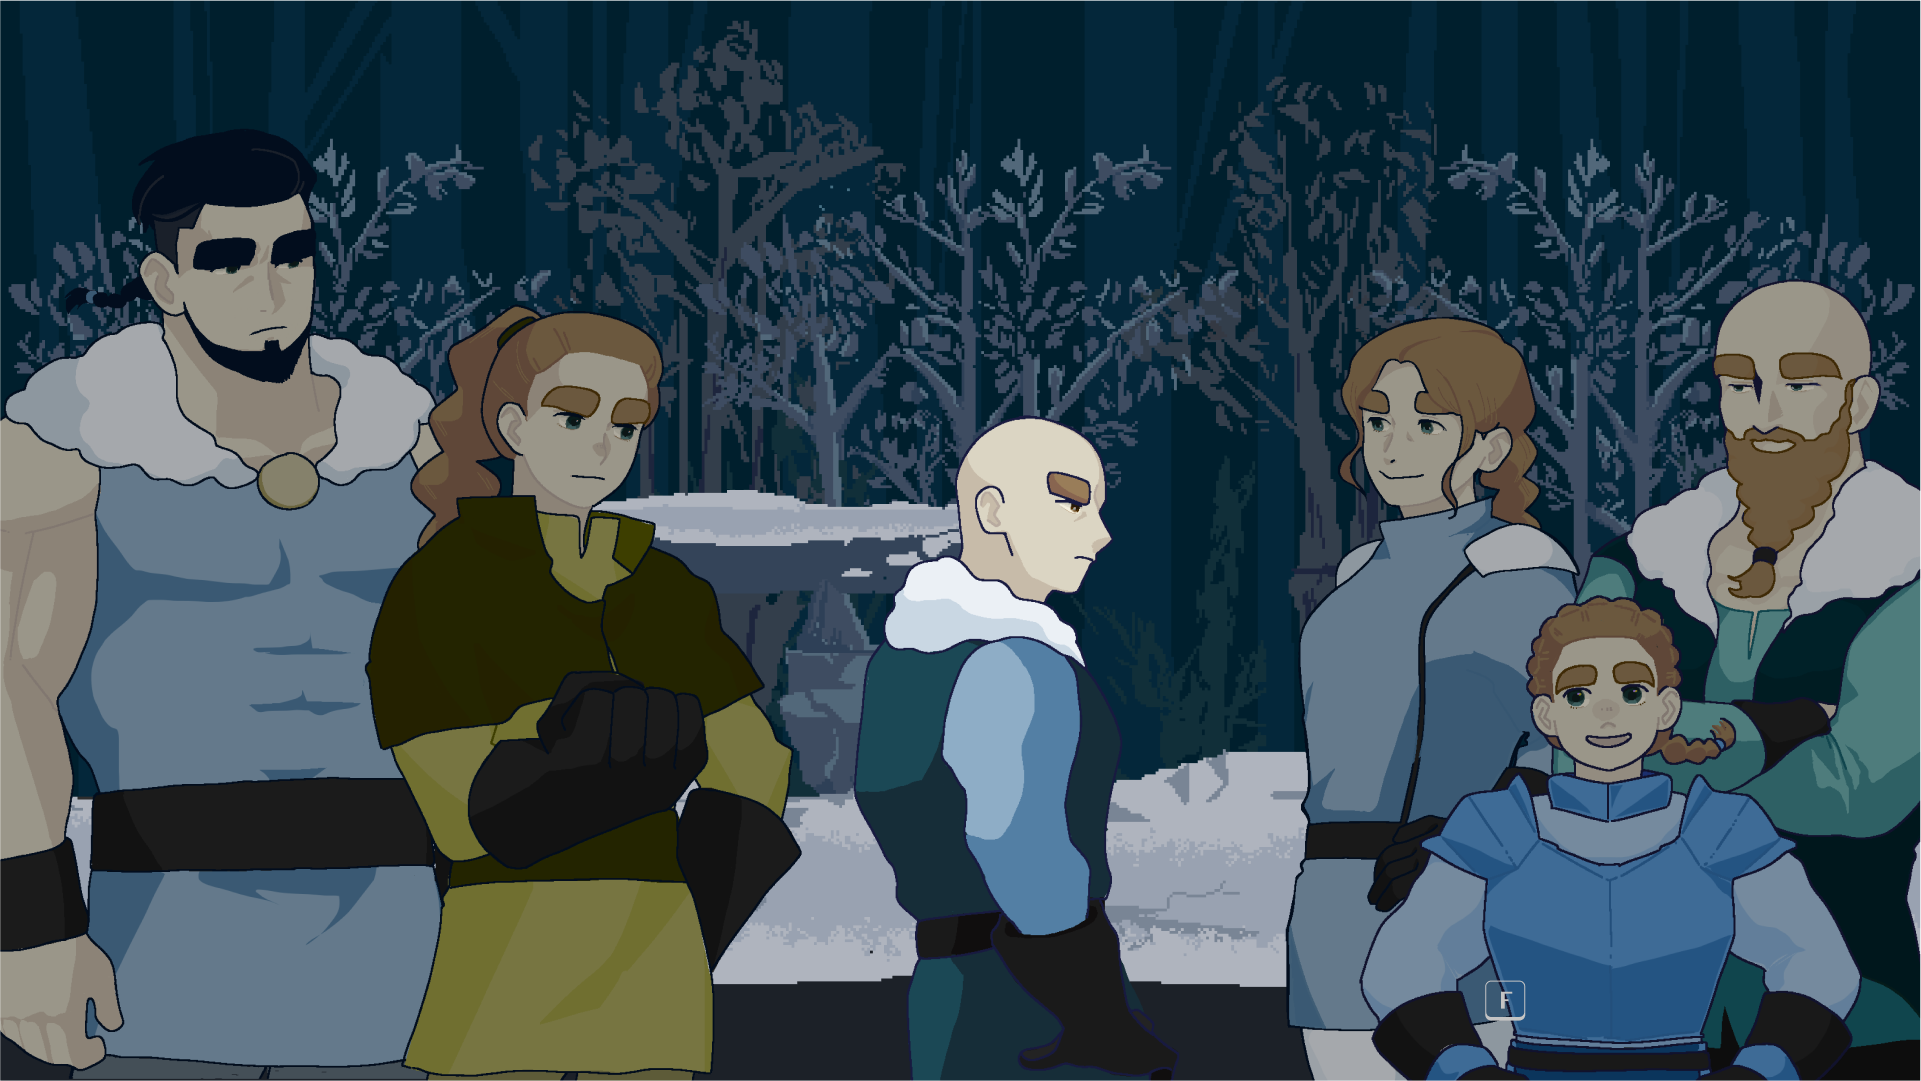
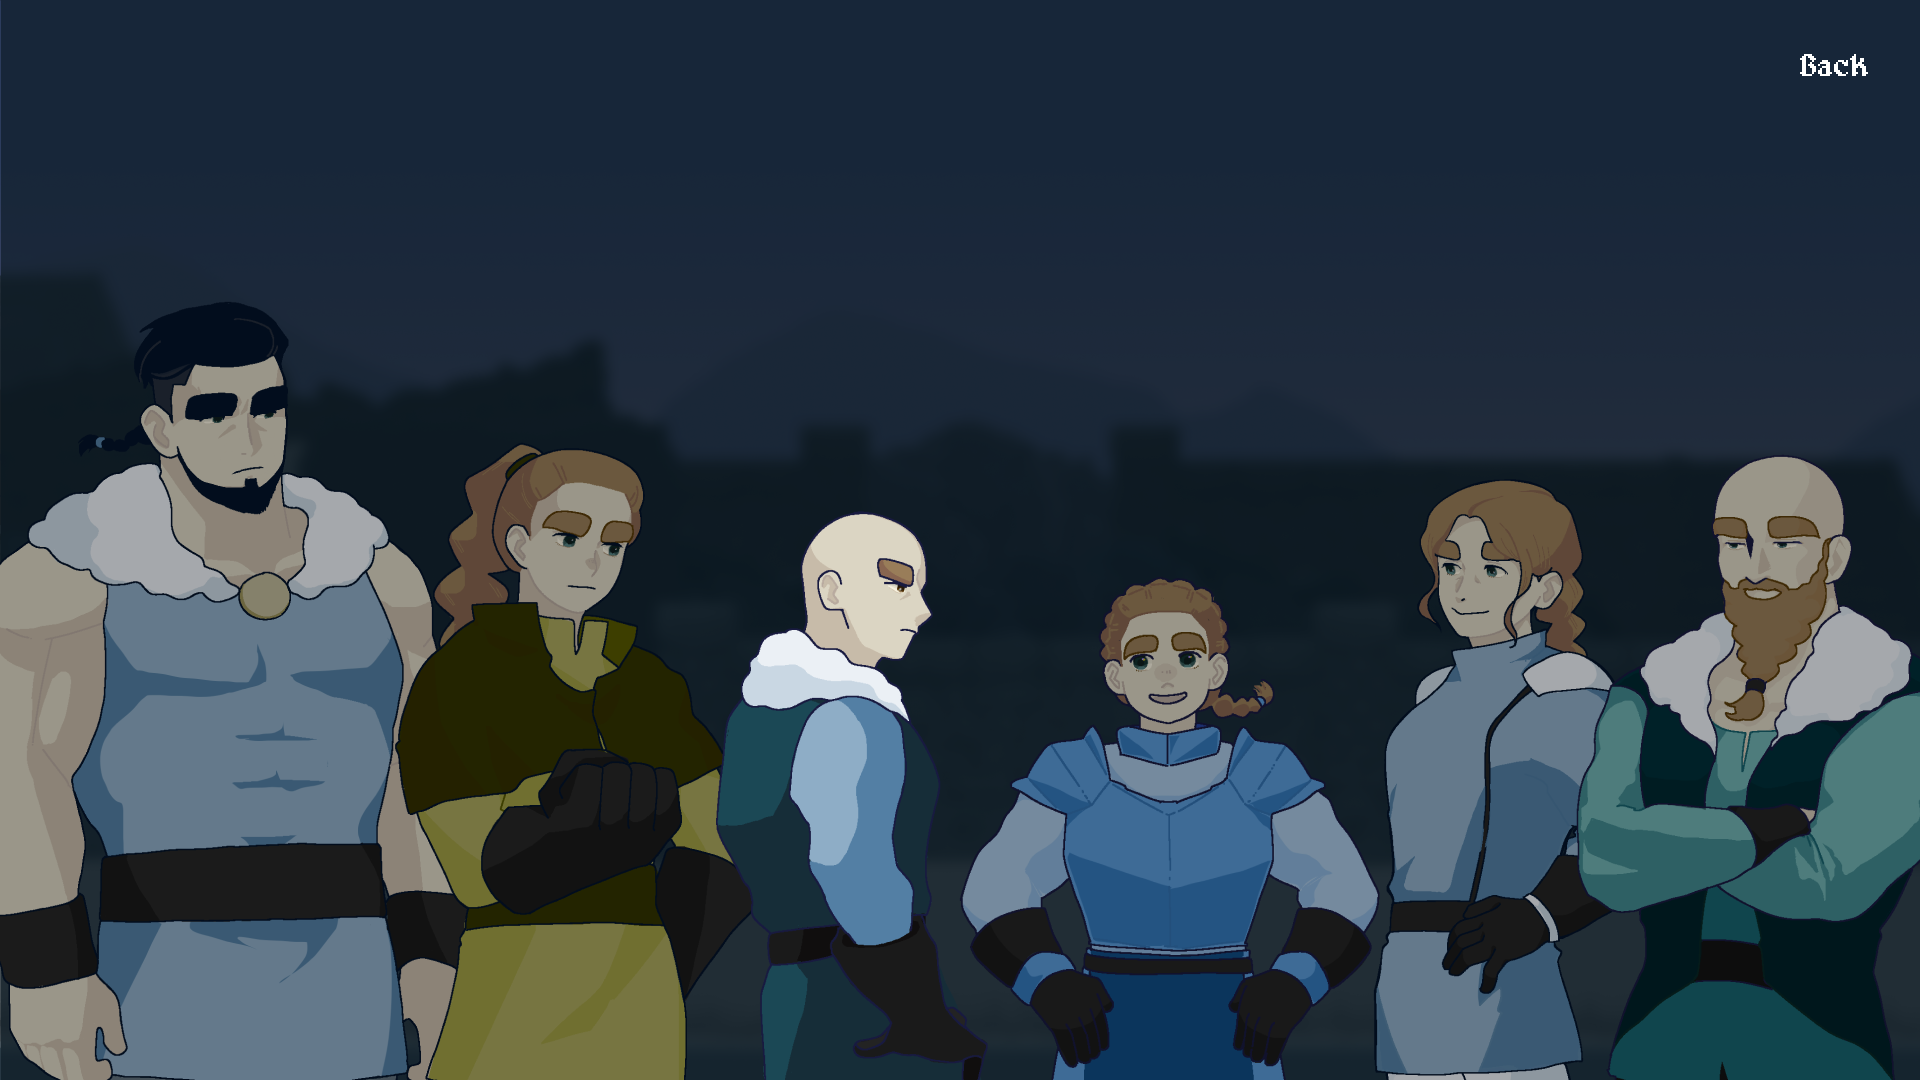
update jumbotron images
clean up file paths

diff --git a/style.css b/style.css
@@ -79,6 +79,24 @@ html {
     border-bottom: 1px solid #929292;
   }
 
+  .text-container {
+    position: relative;
+    display: block;
+    margin-left: auto;
+    margin-right: auto;
+  }
+  
+  .jumbotron::before {
+    content: "";
+    position: absolute;
+    top: 0;
+    left: 0;
+    width: 100%;
+    height: 100%;
+    background: linear-gradient(0deg, #00000088 60%, #ffffff44 140%);
+  }
+
+
     /* .jumbotron {
     color: #E0E0E0;
     border-bottom: 1px solid #929292;
@@ -109,7 +127,7 @@ html {
   }
 
   .btr-jb{
-    background-image: url('images/index-assets/bjorn-rage.jpg');
+    background-image: url('images/btr-assets/bjorn-rage.jpg');
   }
 
   .rotr-jb{
@@ -117,30 +135,13 @@ html {
   }
 
   .lotr-jb{
-    background-image: url('images/index-assets/forest-level-3.png');
+    background-image: url('images/lotr-assets/lotr-jumbotron.png');
   }
 
   .bh-jb{
-    background-image: url('images/bh-assets/bh-jumbotron-2.png');
+    background-image: url('images/bh-assets/bh-jumbotron-3.png');
   }
   
-  .text-container {
-    position: relative;
-    display: block;
-    margin-left: auto;
-    margin-right: auto;
-  }
-  
-  .jumbotron::before {
-    content: "";
-    position: absolute;
-    top: 0;
-    left: 0;
-    width: 100%;
-    height: 100%;
-    background: linear-gradient(0deg, #00000088 60%, #ffffff44 140%);
-  }
-
 @font-face {
     font-family: "Fira Sans Regular";
     src: url("fonts/FiraSans-Regular.ttf");
